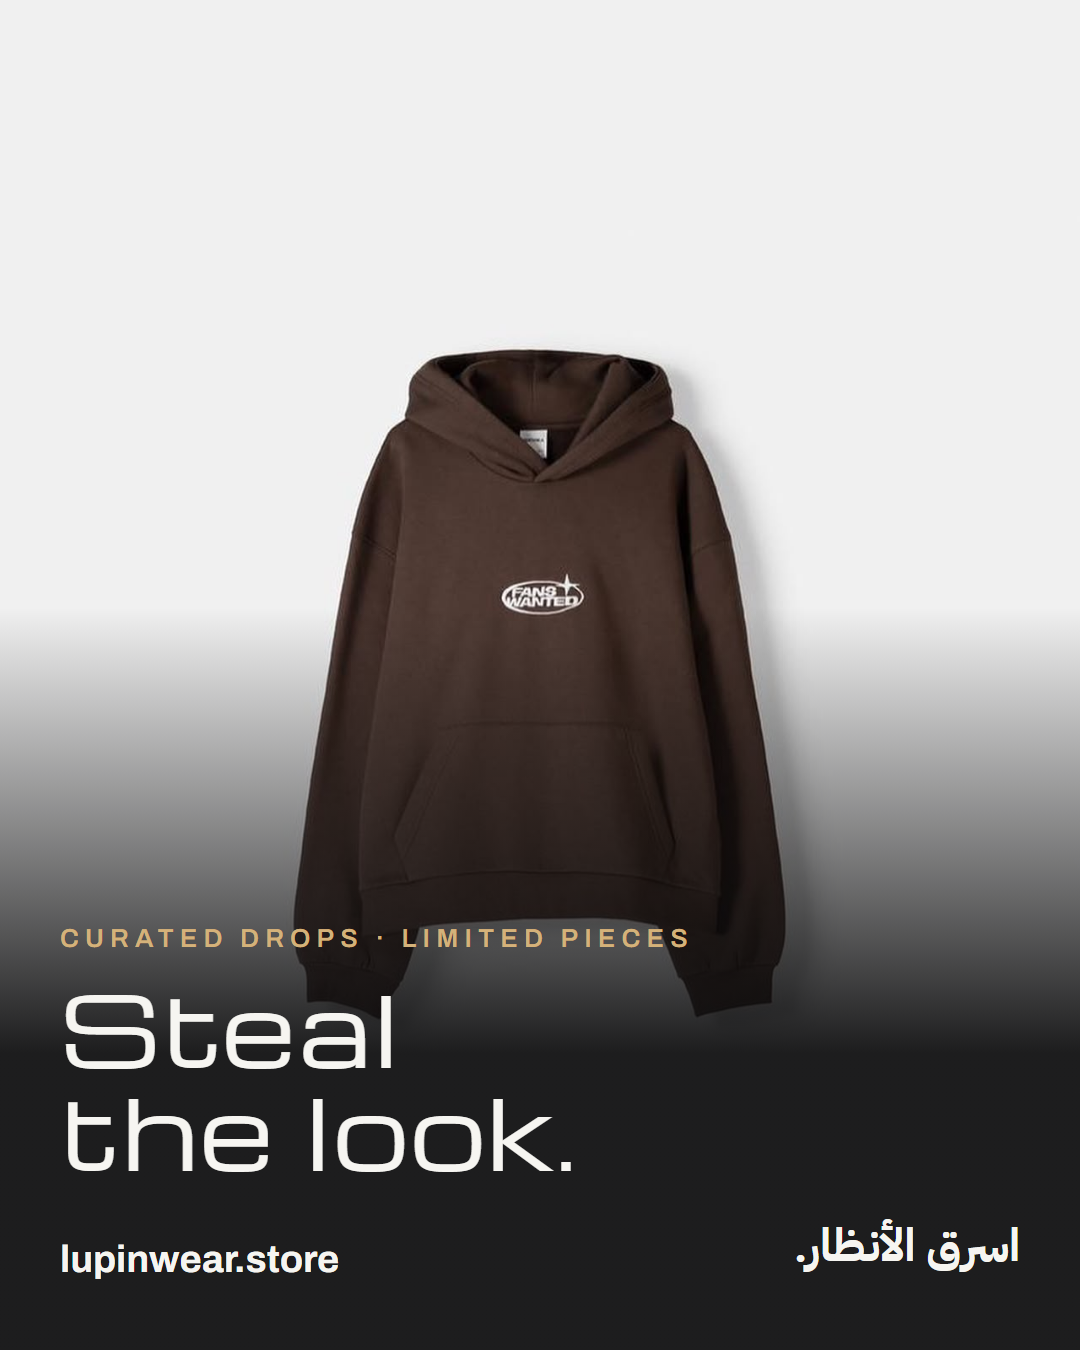
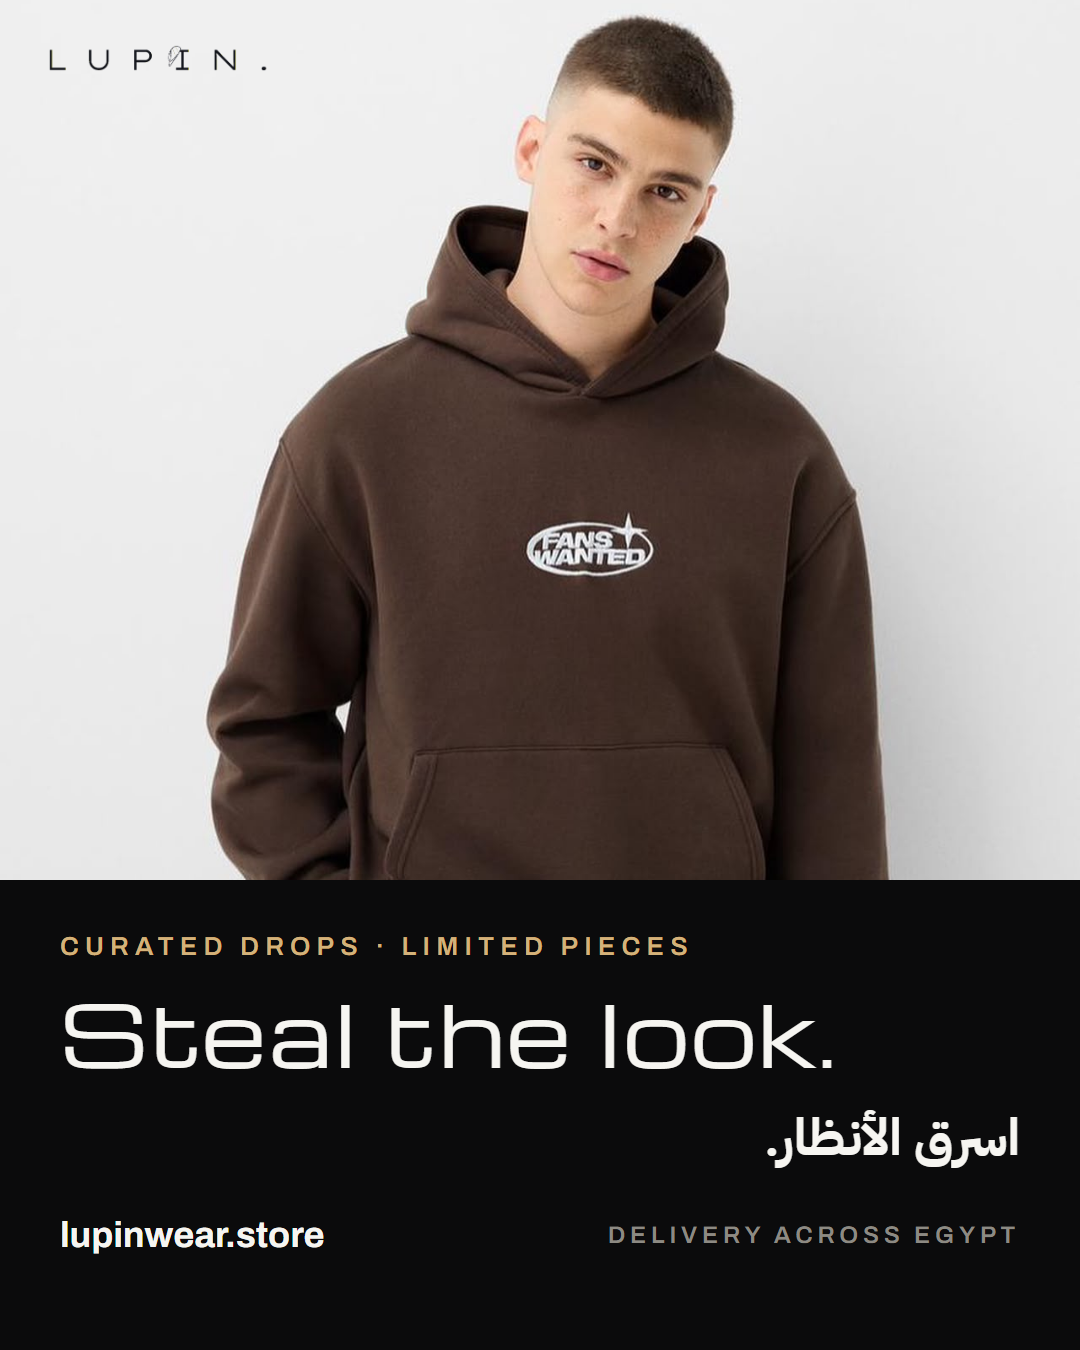
feat(social): cleaner launch post, square version for Facebook
The launch post now uses the store's hero photo above a solid black panel (no gradient over
the photo, no text on the garment), plus a 1:1 copy for the Facebook feed.

diff --git a/brand-assets/social/SOCIAL-KIT.md b/brand-assets/social/SOCIAL-KIT.md
@@ -64,7 +64,7 @@ Hashtags: use 5 to 8 per post, never the same full set every time.
 Core: `#LUPIN #StealTheLook #اسرق_الأنظار #StreetwearEgypt #ستريت_وير`
 Mix in: `#هوديز #هودي #جاكيت #موضة_مصر #CairoStreetwear #EgyptFashion #OOTDEgypt #LimitedDrop`
 
-**post-01-launch.png** (with the Reel the same day)
+**post-01-launch.png** (Instagram, 4:5) / **post-01-launch-square.png** (Facebook, 1:1 — Facebook shows tall images with empty bars) — with the Reel the same day. Posted on Facebook on 2026-11-19.
 ```
 Steal the look. 🖤
 LUPIN. is live: curated streetwear from original brands, released in limited drops. Every piece has an operation name.
